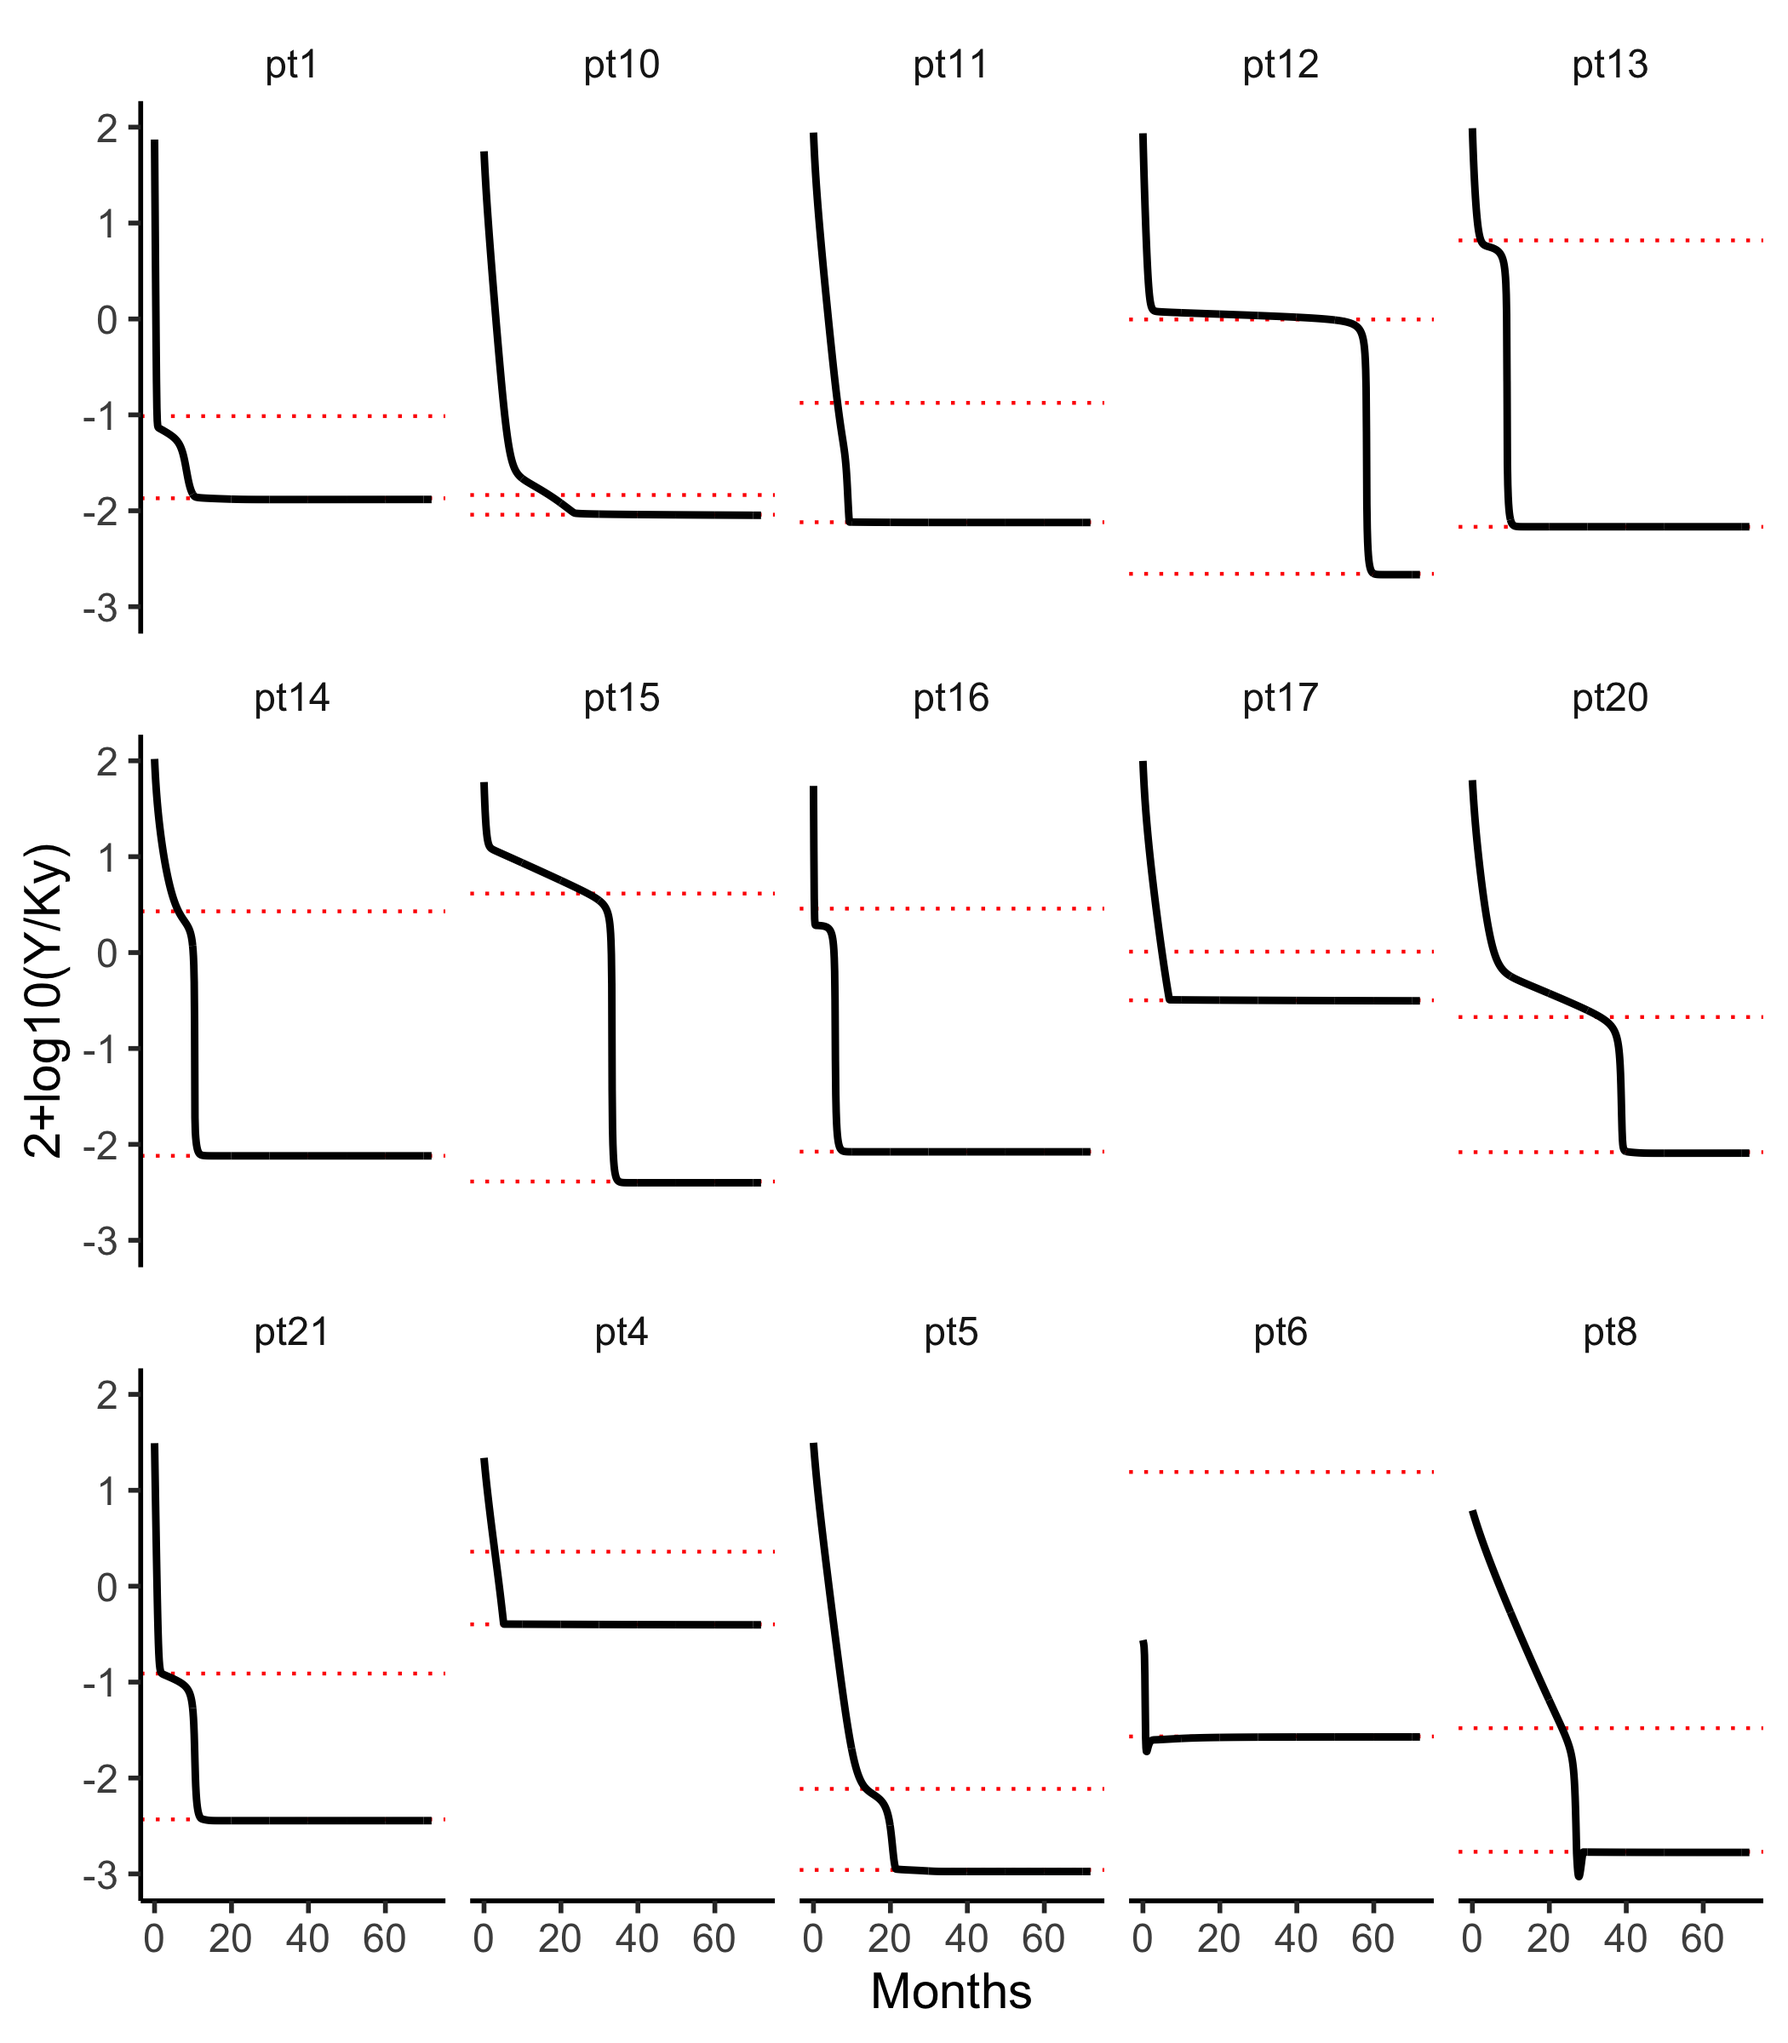
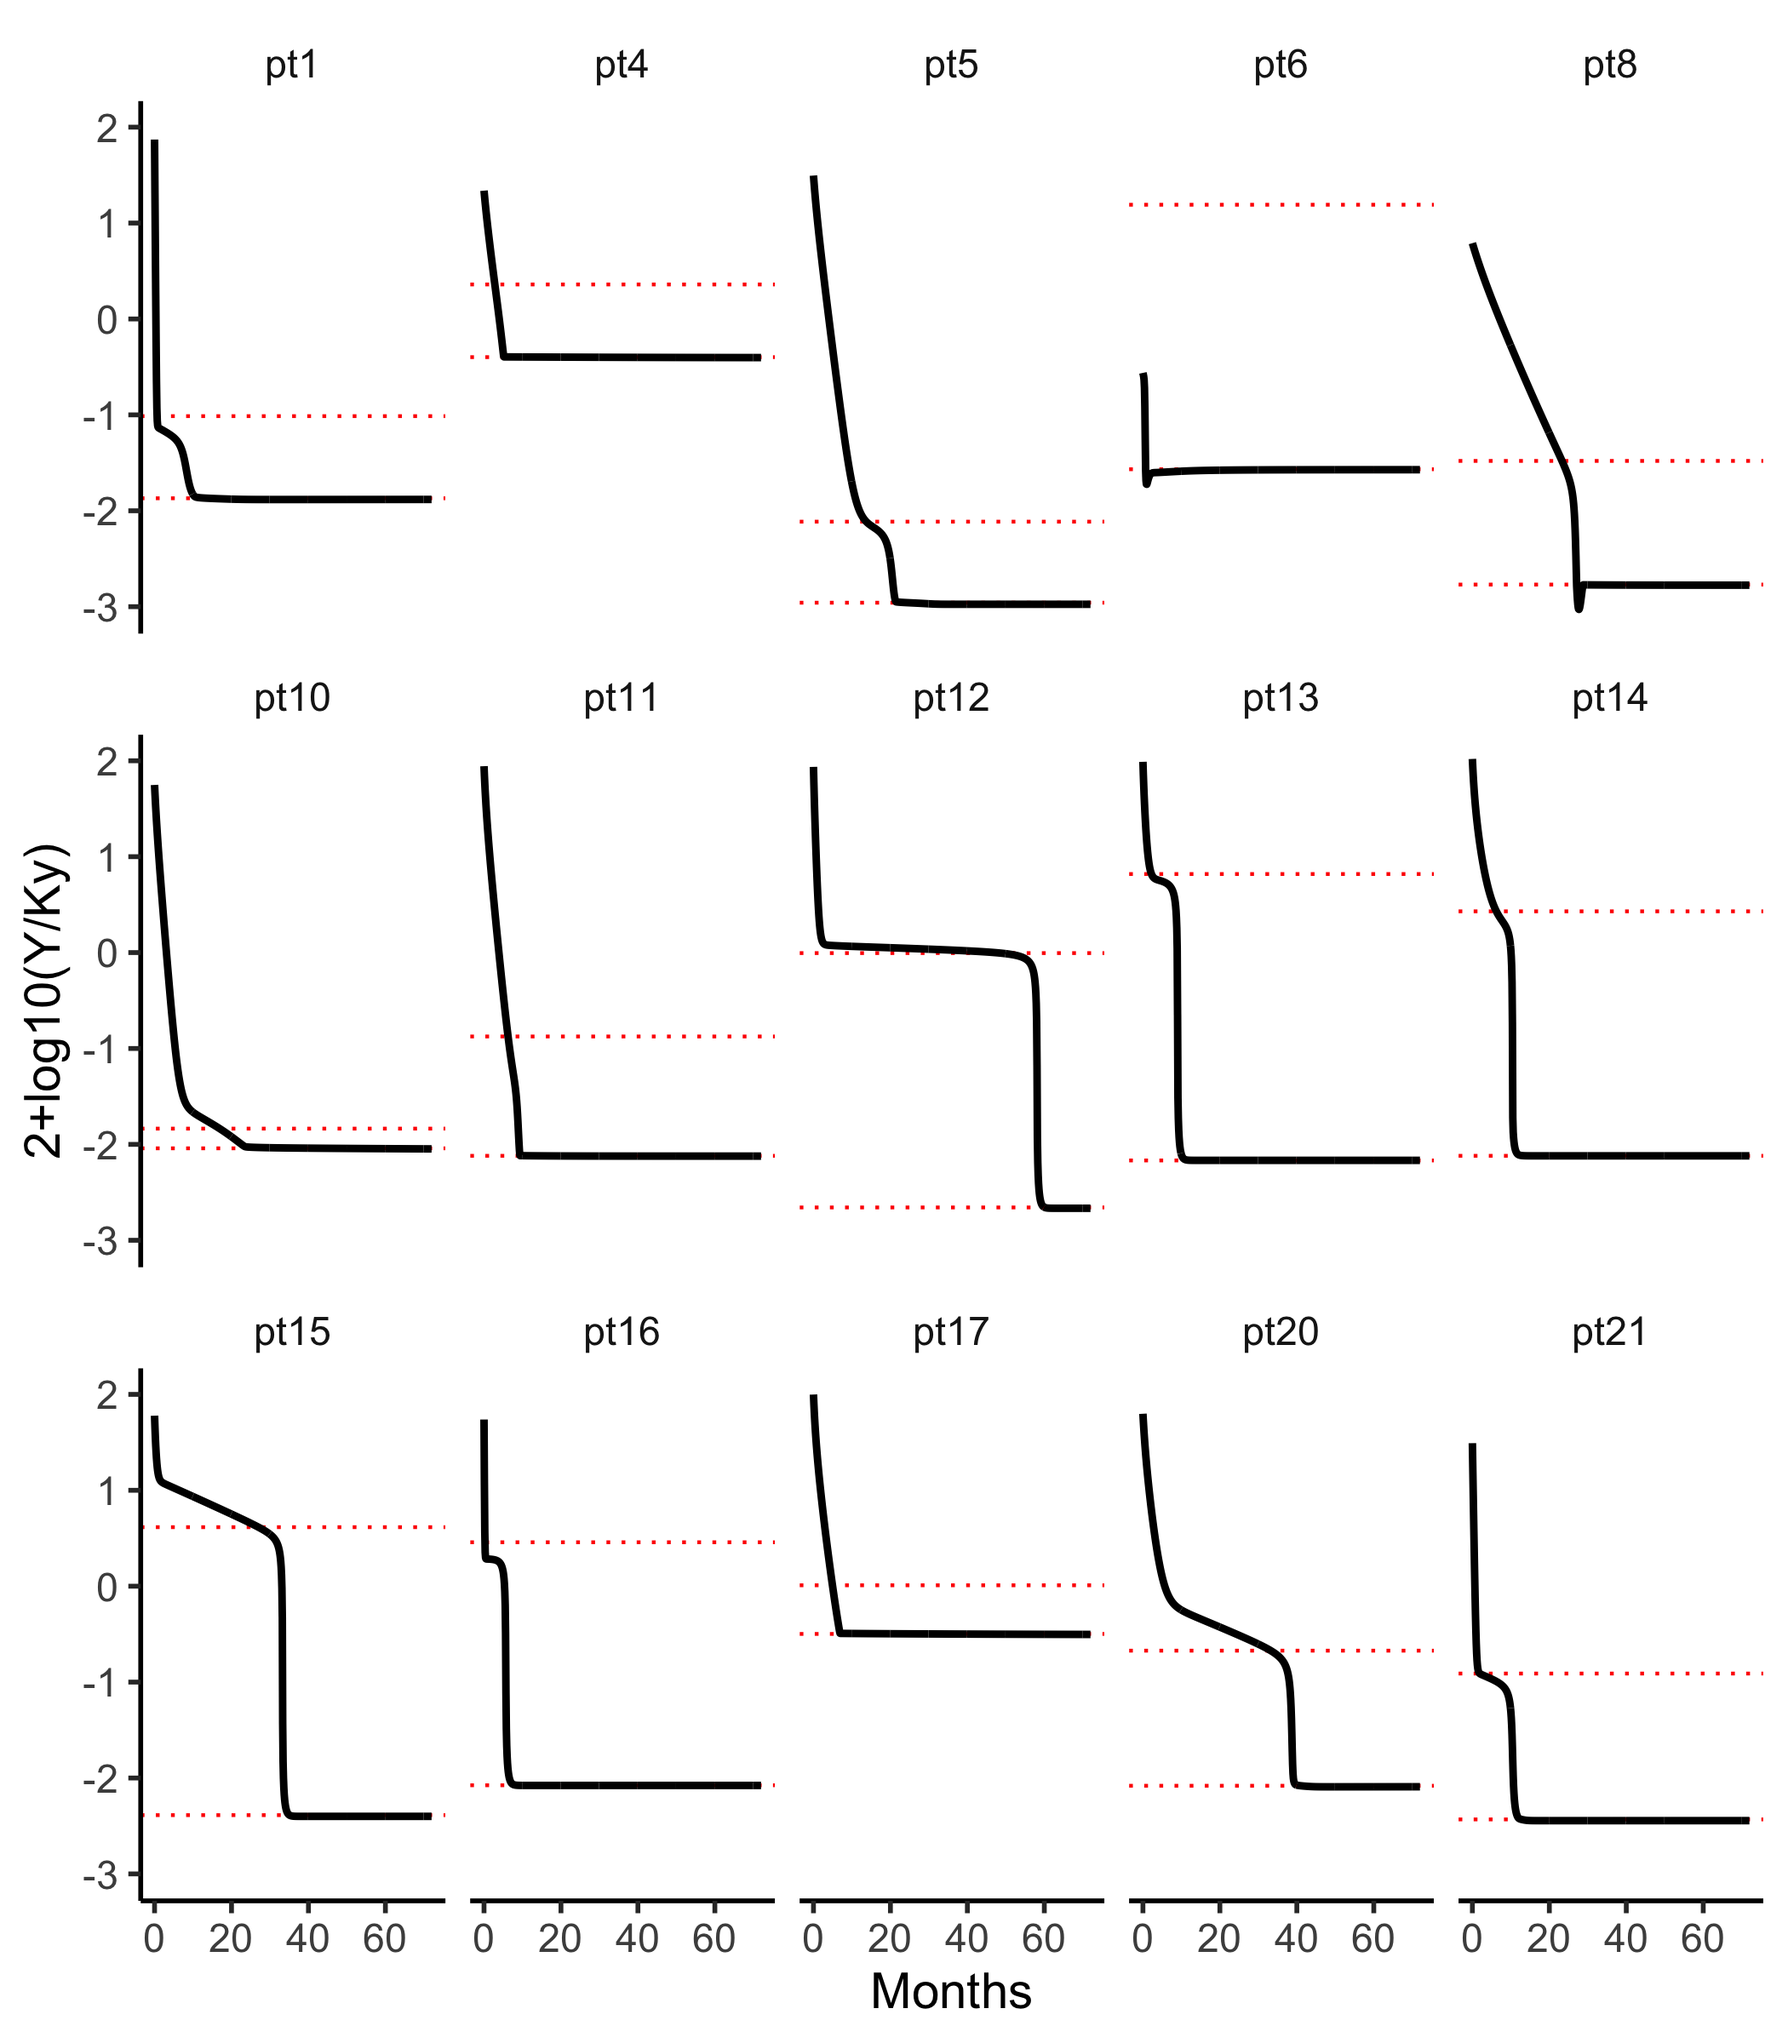
H edits

diff --git a/CML/hahnel20/README.md b/CML/hahnel20/README.md
@@ -138,6 +138,7 @@ dn=dn%>%mutate(D=map(out,function(x) as_tibble(x)%>%select(time,prct,TKIa)
 dd=dn%>%select(id,D)
 dd=dd%>%unnest(cols=D)
 dd$id=as_factor(dd$id)
+d$id=as_factor(d$id)
 tc=function(sz) theme_classic(base_size=sz)
 gx=xlab("Months")
 gy=ylab("2+log10(Y/Ky)")
@@ -152,14 +153,16 @@ ggsave("../docs/doseAdjY.png",width=7,height=8)
 
 ![](../../docs/doseAdjY.png)
 
-These load dynamics are achieved by these drug dosing dynamics
+These load dynamics are achieved by drug dosing dynamics that generate the following TKI-mediated CML cell killing rates 
 ```
-dd%>%ggplot(aes(x=time,y=TKIa))+facet_wrap(id~.)+geom_line(size=1)+gx+tc(14)+sbb 
-ggsave("../docs/doseAdjTKI.png",width=4,height=4)
+dd%>%ggplot(aes(x=time,y=TKIa))+facet_wrap(id~.,scale="free",ncol=5)+
+   ylim(c(0,NA))+geom_line(size=1)+gx+tc(14)+sbb 
+ggsave("../docs/doseAdjTKI.png",width=7,height=8)
+
 ```
 ![](../../docs/doseAdjTKI.png)
-Dose-adjusted TKI-mediated CML cell killing rates plotted here differ in initial values due to
-patient differences in drug efficacy, not dose.  
+This reveals that the Class C patient in Fig. S9 was pt 4. 
+It is unclear why baseline values are much higher in pts 1 and 16.   
 
 
 
